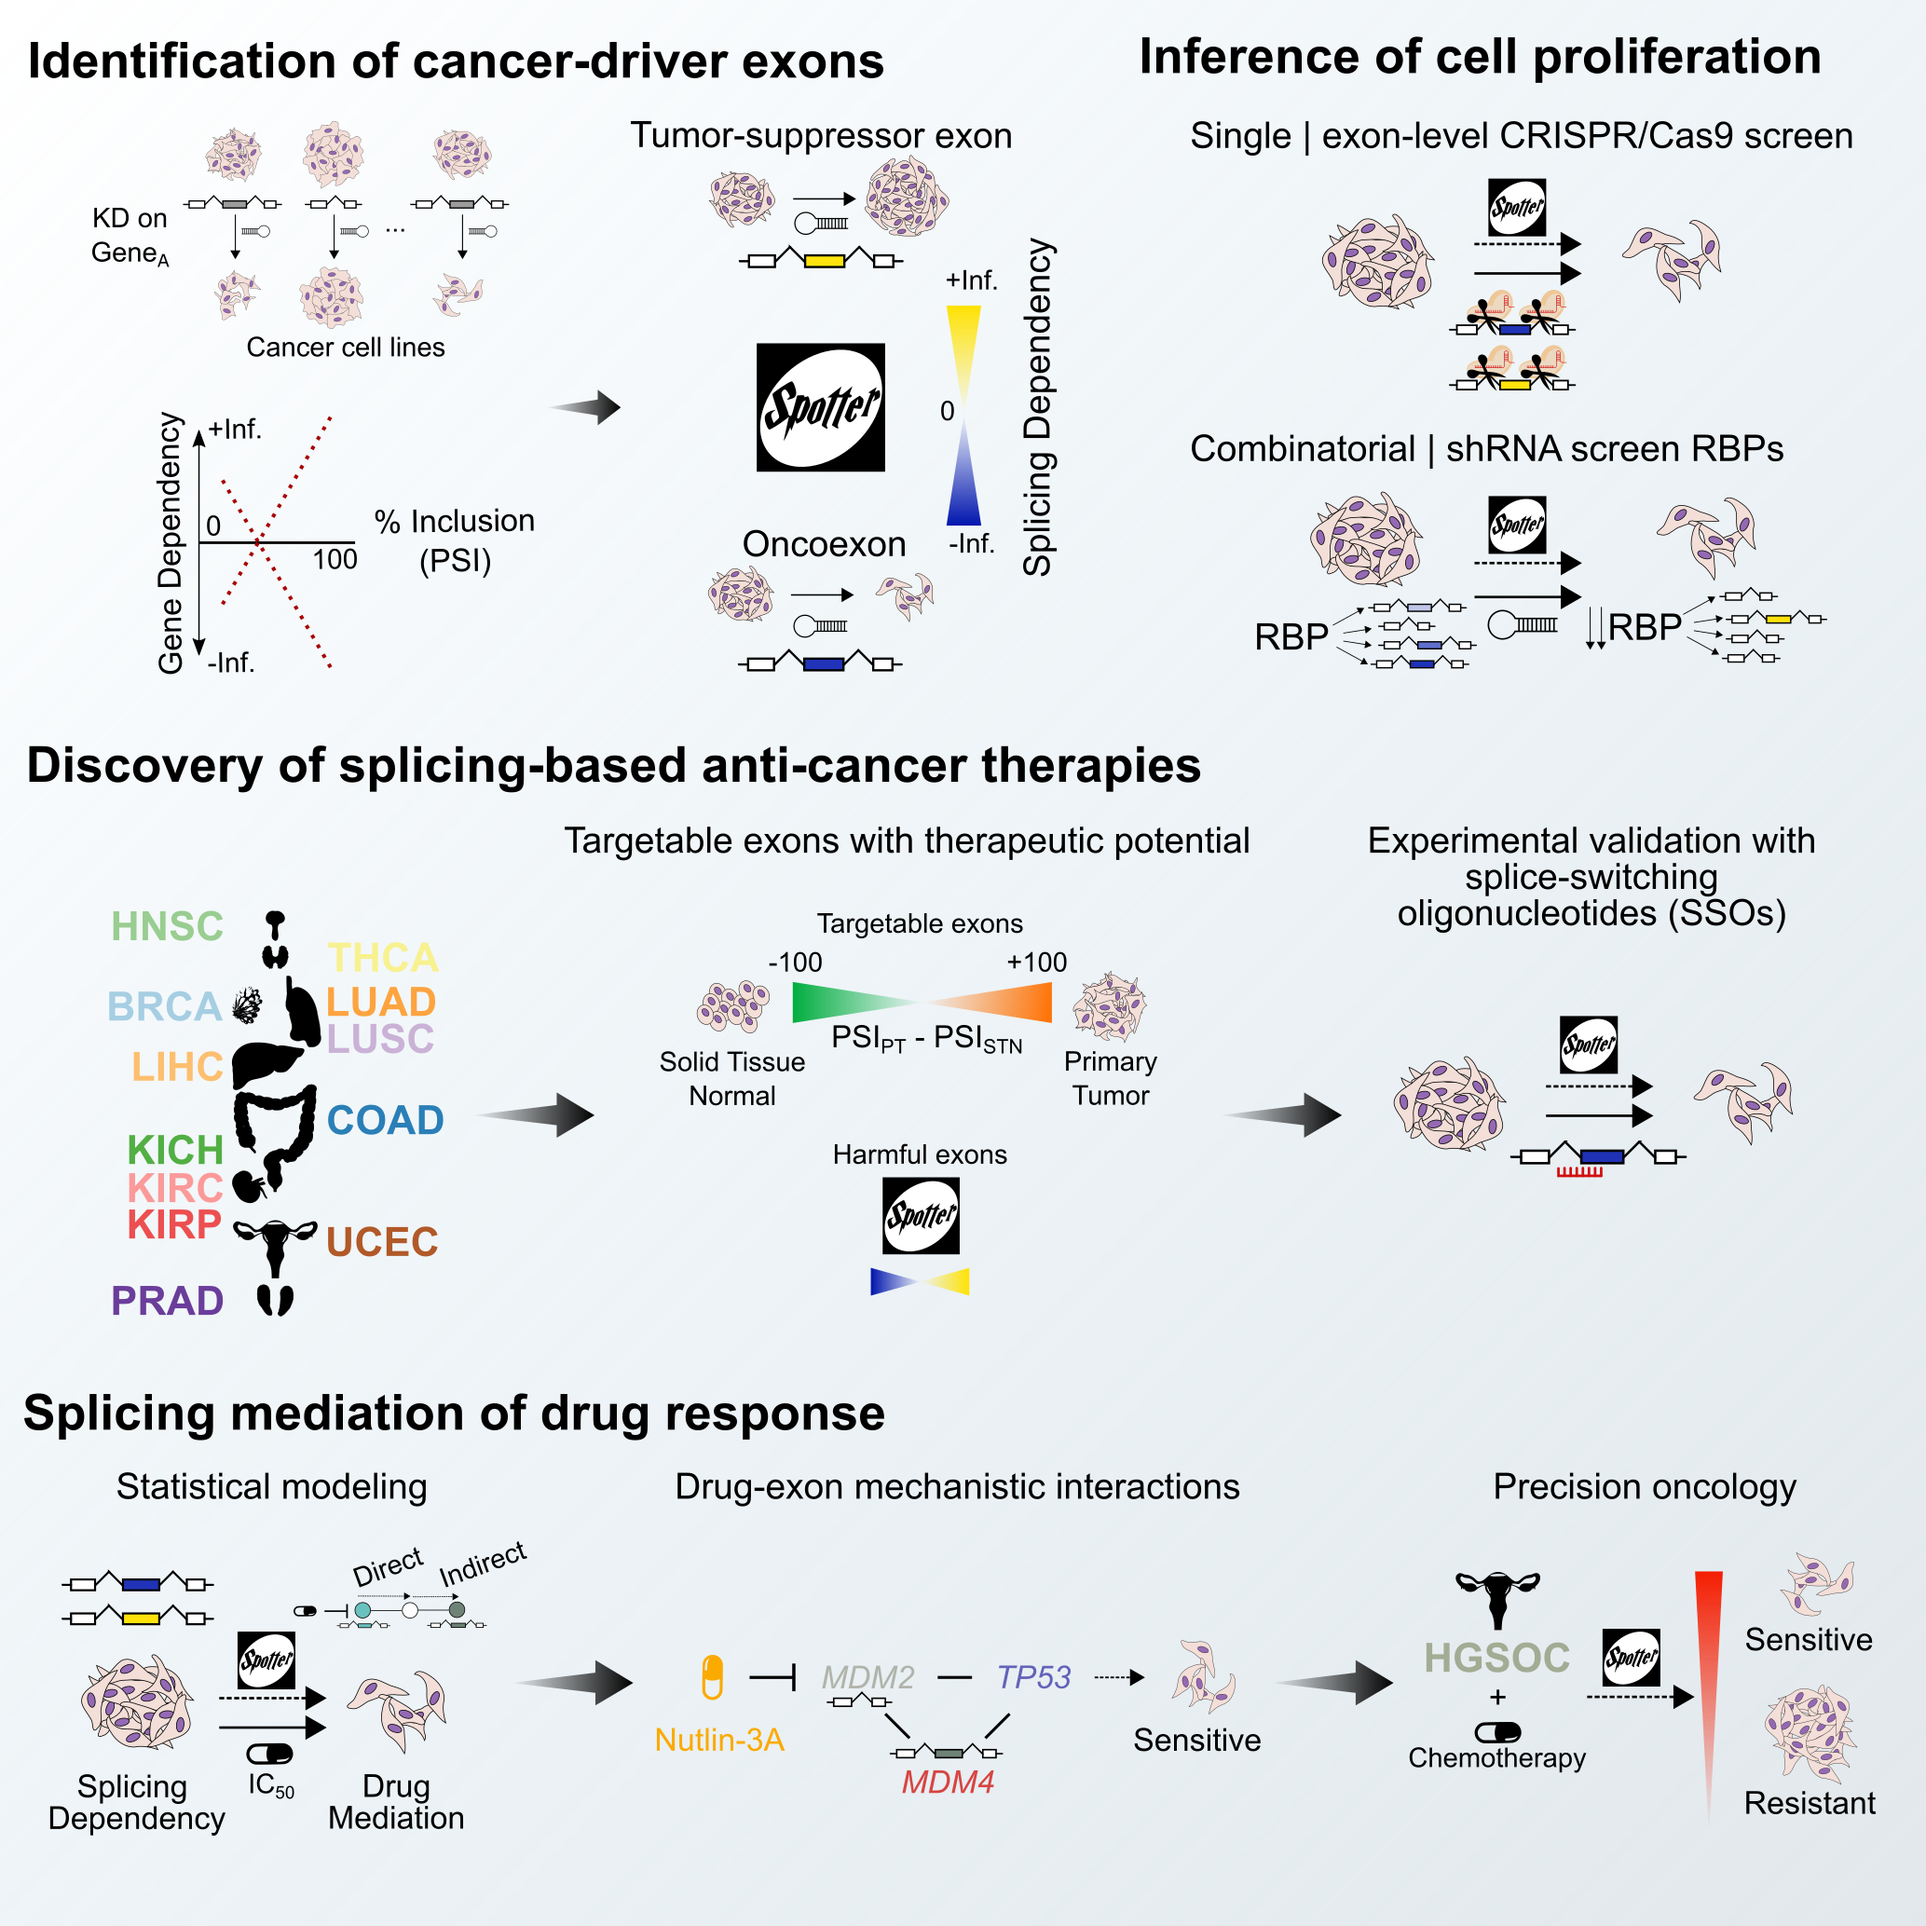
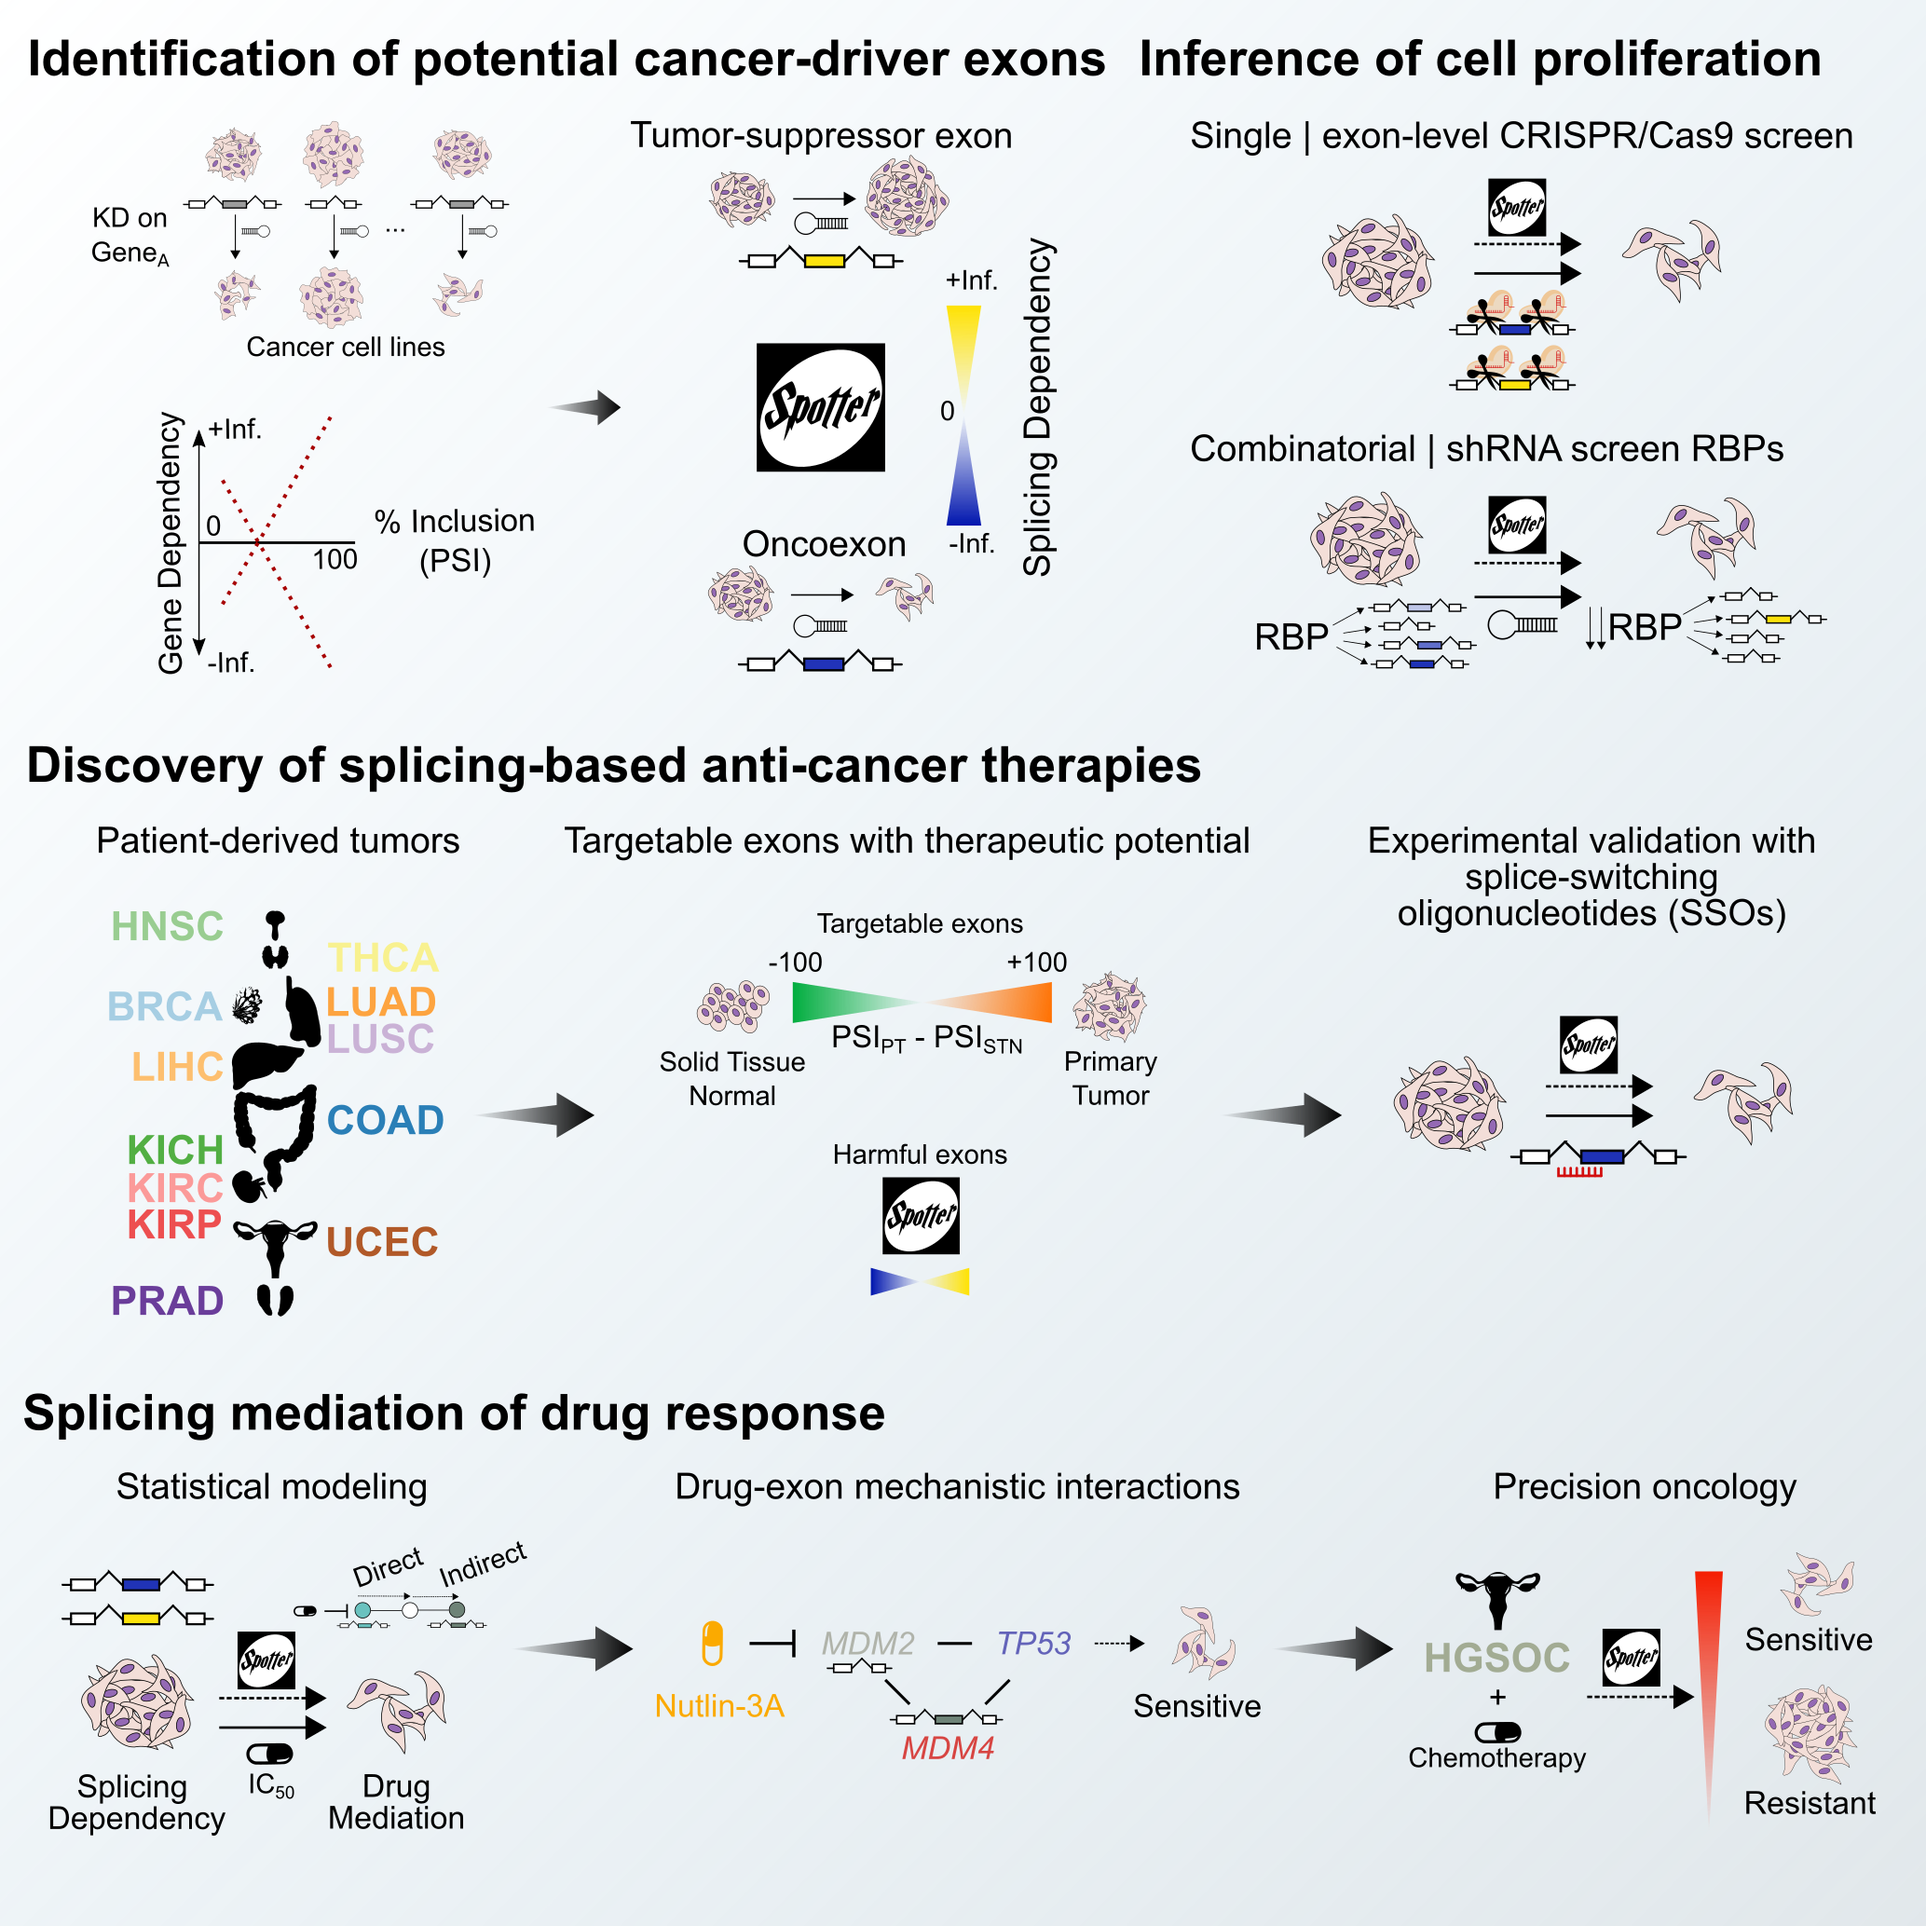
update README

diff --git a/README.md b/README.md
@@ -1,8 +1,8 @@
-# *In silico* RNA isoform screening for the systematic discovery of cancer-driver exons with therapeutic potential
+# *In silico* RNA isoform screening for the systematic discovery of potential cancer-driver exons with therapeutic applications
 
 This is the repository to reproduce the analysis carried out in our manuscript, from the data download to the figures.
 
-The article describes how we repurposed gene-level knockdown screens across many cancer cell lines and their intrinsic heterogeneity to generate a computational framework called `spotter` of cancer-driver exons whose inclusion is highly predictive of cancer cell proliferation.
+The article describes how we repurposed gene-level knockdown screens across many cancer cell lines and their intrinsic heterogeneity to generate a computational framework called `spotter` of potential cancer-driver exons whose inclusion is highly predictive of cancer cell proliferation.
 
 ## Overview
 The computational framework created to perform *in silico* RNA isoform screening is available as a Python package called [target_spotter](https://github.com/MiqG/target_spotter) and can also be accessed interactively at https://spotter.crg.eu.
@@ -18,9 +18,9 @@ The computational framework created to perform *in silico* RNA isoform screening
     1. `obtain_data` generates the `data/raw` directory. Note that some raw datasets require special permissions and/or need to be downloaded manually. See the corresponding `workflows/obtain_data/README.md` file.
     2. `preprocess_data` generates the `data/prep` directory cleaning raw datasets to be analyzed.
     3. `model_splicing_dependency` generates the `results/model_splicing_dependency` directory. Perfoms model fitting and validation using existing datasets.
-    4. `streamlined_therapy_dev` generates the `results/streamlined_therapy_dev` directory. Prioritizes cancer-driver exons with therapeutic potential from patient data.
+    4. `streamlined_therapy_dev` generates the `results/streamlined_therapy_dev` directory. Prioritizes potential cancer-driver exons with therapeutic potential from patient data.
     5. `experimental_validation` generates the `results/experimental_validation` directory. Analyzes our inhouse experimental results.
-    6. `exon_drug_interactions` generates the `results/exon_drug_interactions` directory. Performs drug-exon association models using predicted splicing dependencies for cancer cell lines and explores how cancer-driver exons may mediate drug mechanism of action.
+    6. `exon_drug_interactions` generates the `results/exon_drug_interactions` directory. Performs drug-exon association models using predicted splicing dependencies for cancer cell lines and explores how potential cancer-driver exons may mediate drug mechanism of action.
     7. `treatment_recommendation` generates the `results/treatment_recommendation` directory. Case study of a dataset in which ~40 patients were treated with chemotherapies and we try to predict their outcomes with our statistical models.
     8. `prepare_submission` generates the `results/prepare_submission` directory. Collects tables from all workflows and puts them in order to prepare the submission.
     
